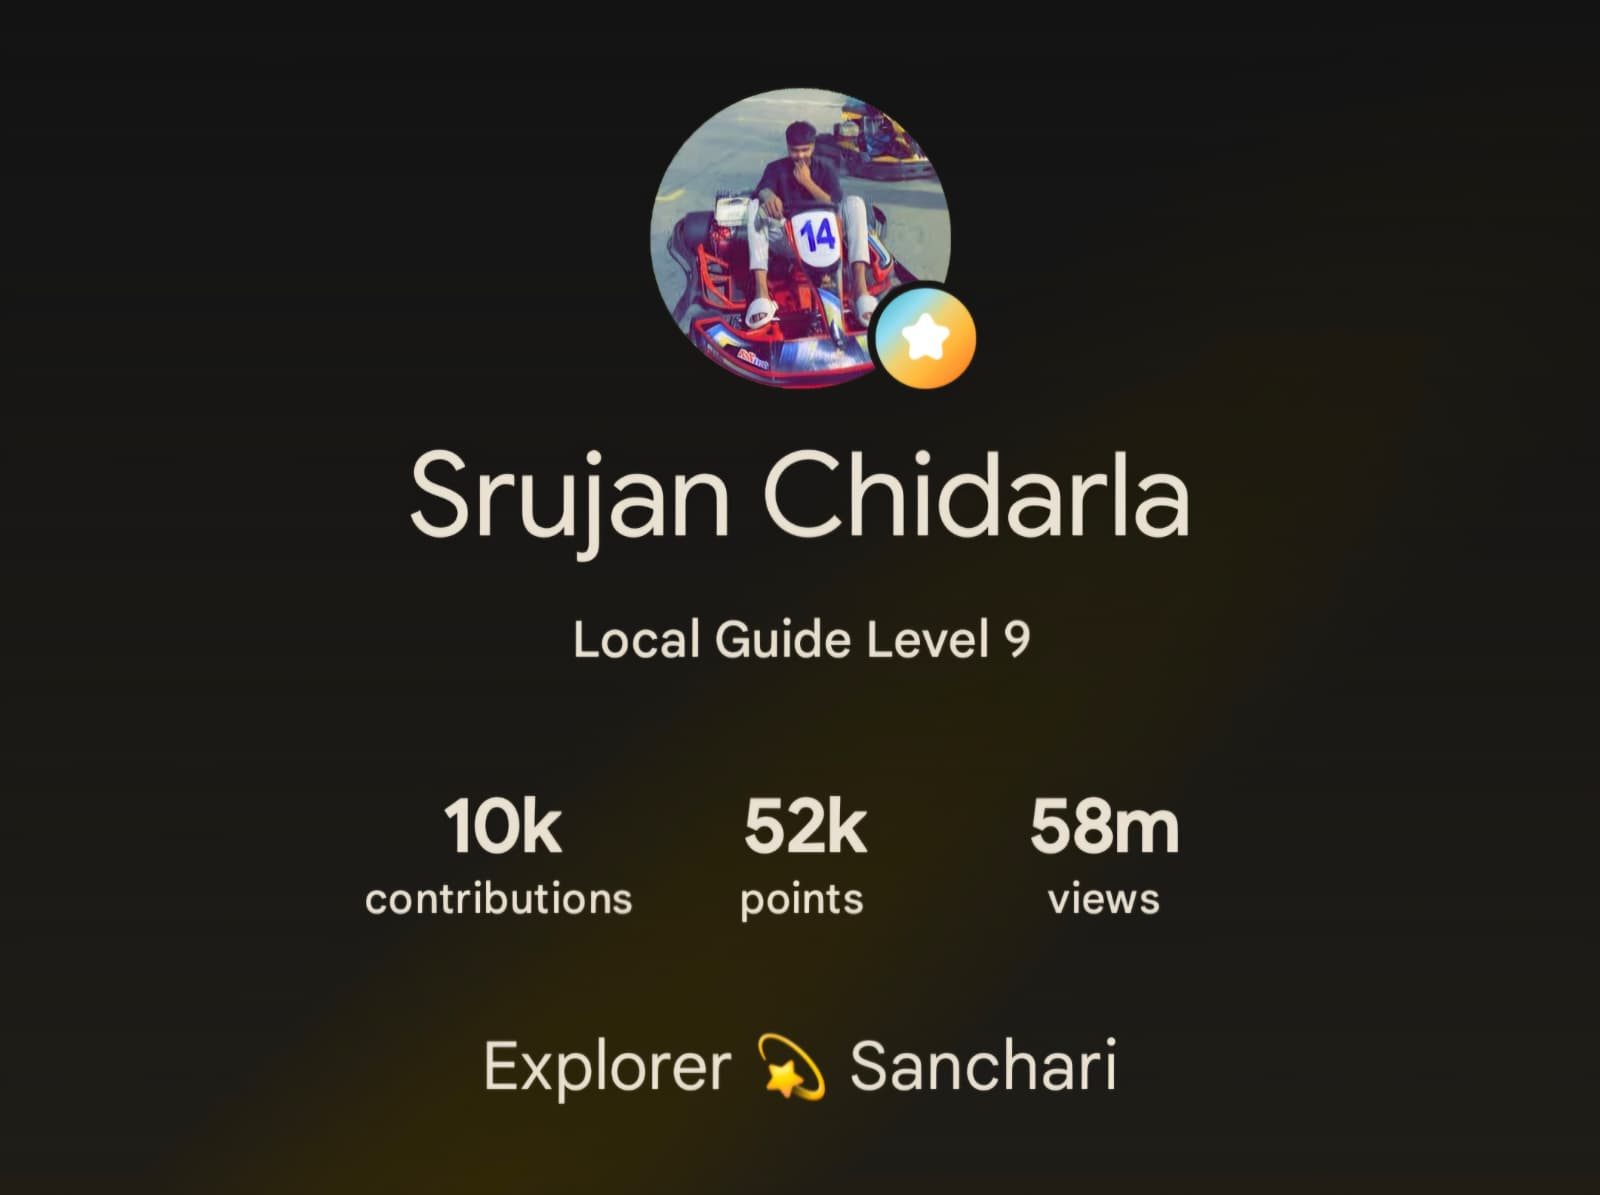
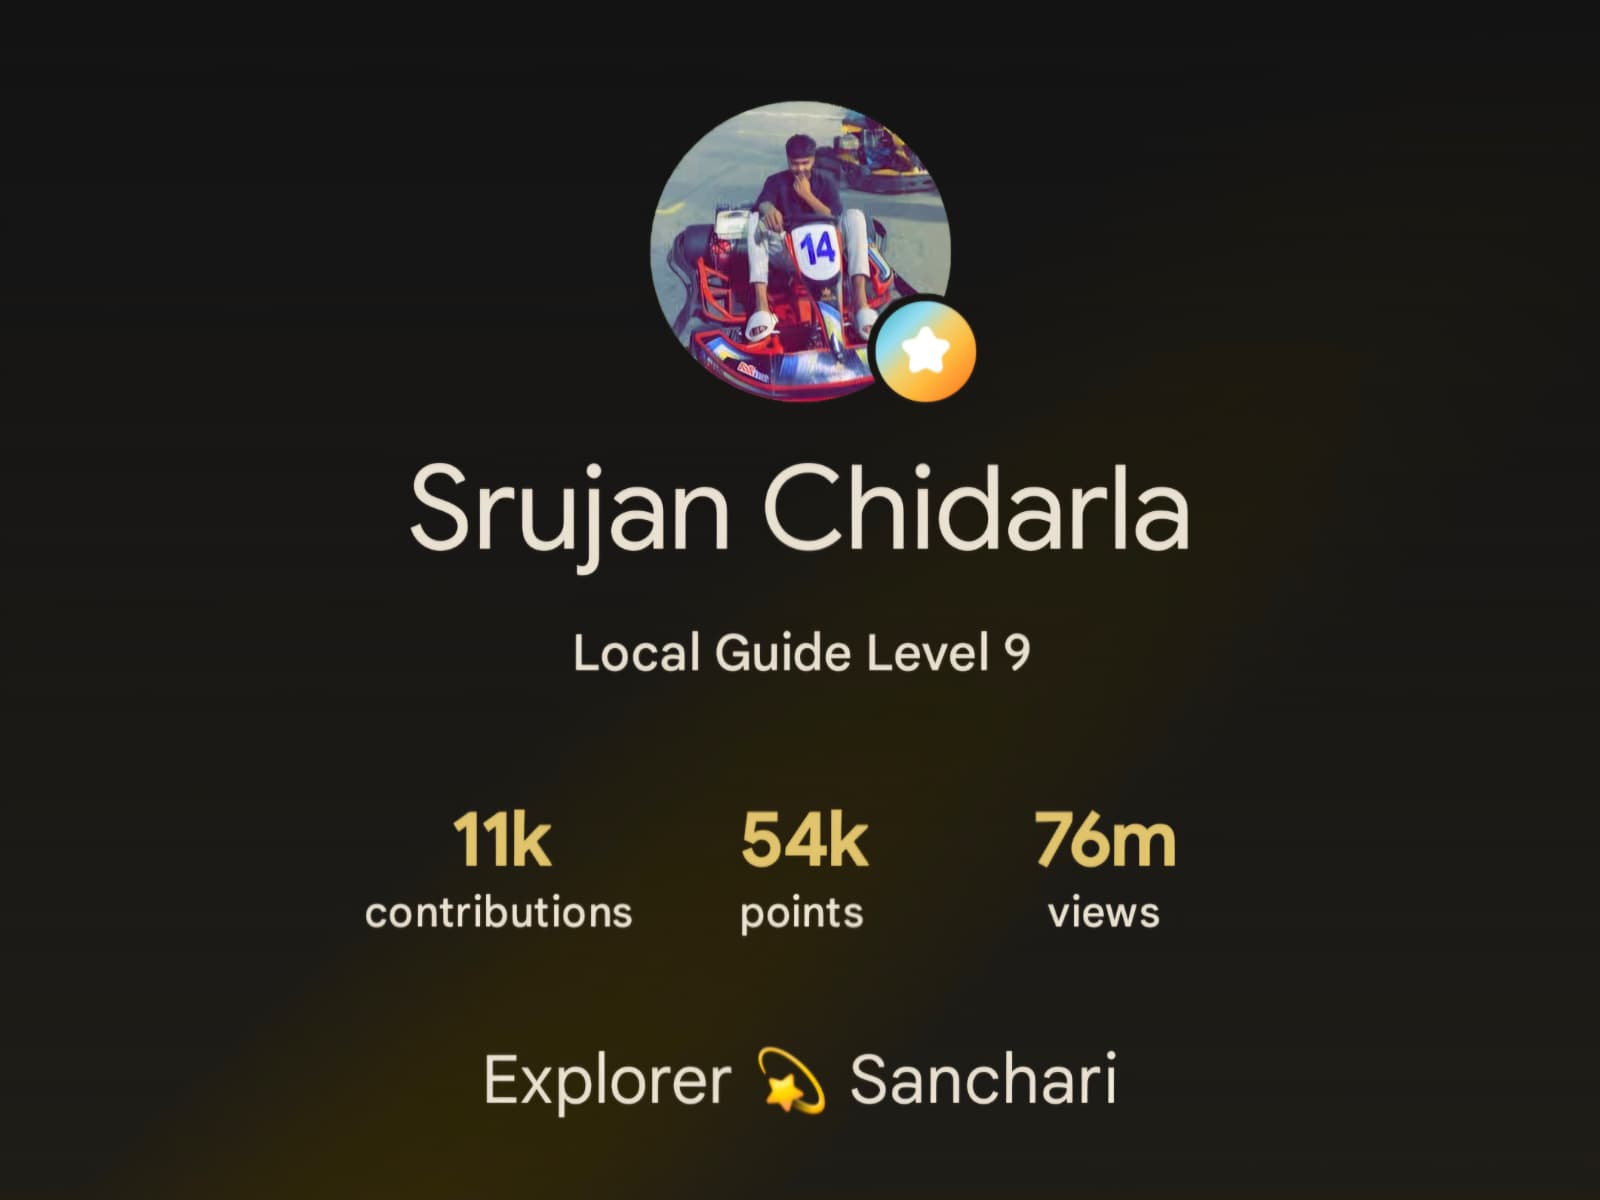
Fit the new Local Guide card to the full height of its section.
The updated profile image replaces the old square crop so the current points and views stay readable beside the stats.

diff --git a/src/app/globals.css b/src/app/globals.css
@@ -10972,9 +10972,14 @@ html[data-theme="light"] .navbar__resume:hover {
 }
 
 .rh-lg__strip {
-  display: flex;
+  display: grid;
+  grid-template-columns: auto minmax(0, 1fr) auto;
+  grid-template-areas:
+    "photo copy cta"
+    "photo details details";
   align-items: center;
-  gap: 24px;
+  column-gap: 24px;
+  row-gap: 14px;
   padding: 18px 22px;
   border-radius: 20px;
   border: 1px solid var(--c-border);
@@ -10995,11 +11000,14 @@ html[data-theme="light"] .navbar__resume:hover {
 }
 
 .rh-lg__avatar-wrap {
+  grid-area: photo;
   position: relative;
   display: block;
-  width: 200px;
-  height: 200px;
-  flex-shrink: 0;
+  align-self: stretch;
+  width: auto;
+  height: auto;
+  aspect-ratio: 4 / 3;
+  min-height: 100%;
   border-radius: 18px;
   overflow: hidden;
   border: 1px solid var(--c-border);
@@ -11012,12 +11020,12 @@ html[data-theme="light"] .navbar__resume:hover {
   height: 100% !important;
   max-width: none !important;
   object-fit: cover;
-  object-position: center 18%;
+  object-position: center center;
 }
 
 .rh-lg__copy {
+  grid-area: copy;
   min-width: 0;
-  flex: 1;
   display: flex;
   flex-direction: column;
   justify-content: center;
@@ -11082,10 +11090,11 @@ html[data-theme="light"] .navbar__resume:hover {
 }
 
 .rh-lg__details {
+  grid-area: details;
   display: flex;
   flex-direction: column;
   gap: 8px;
-  flex: 1 1 100%;
+  min-width: 0;
 }
 
 .rh-lg__progress {
@@ -11157,25 +11166,9 @@ html[data-theme="light"] .navbar__resume:hover {
   color: var(--c-muted);
 }
 
-@media (min-width: 721px) {
-  .rh-lg__strip {
-    flex-wrap: wrap;
-  }
-
-  .rh-lg__copy {
-    flex: 1 1 280px;
-  }
-
-  .rh-lg__details {
-    display: flex;
-    flex-direction: column;
-    gap: 8px;
-    flex: 1 1 100%;
-    padding-left: 224px;
-  }
-}
-
 .rh-lg__cta {
+  grid-area: cta;
+  justify-self: end;
   display: inline-flex;
   align-items: center;
   gap: 6px;
@@ -11203,18 +11196,25 @@ html[data-theme="light"] .navbar__resume:hover {
   }
 
   .rh-lg__strip {
-    flex-wrap: wrap;
-    gap: 16px;
+    grid-template-columns: minmax(148px, 46%) minmax(0, 1fr);
+    grid-template-areas:
+      "photo copy"
+      "photo cta"
+      "details details";
+    column-gap: 16px;
+    row-gap: 12px;
     padding: 14px 16px;
   }
 
-  .rh-lg__details {
-    padding-left: 0;
+  .rh-lg__avatar-wrap {
+    width: 100%;
+    min-height: 0;
+    aspect-ratio: auto;
   }
 
-  .rh-lg__avatar-wrap {
-    width: 152px;
-    height: 152px;
+  .rh-lg__cta {
+    justify-self: end;
+    align-self: start;
   }
 
   .rh-lg__title {
@@ -11240,23 +11240,8 @@ html[data-theme="light"] .navbar__resume:hover {
 }
 
 @media (max-width: 520px) {
-  .rh-lg__strip {
-    flex-wrap: wrap;
-  }
-
-  .rh-lg__copy {
-    flex: 1 1 calc(100% - 168px);
-  }
-
   .rh-lg__cta {
-    margin-left: auto;
-  }
-
-  .rh-lg__details {
-    display: flex;
-    flex-direction: column;
-    gap: 8px;
-    flex: 1 1 100%;
+    justify-self: end;
   }
 }
 

diff --git a/src/components/recruiter/LocalGuideBanner.tsx b/src/components/recruiter/LocalGuideBanner.tsx
@@ -20,7 +20,7 @@ export default function LocalGuideBanner() {
               height={600}
               quality={92}
               className="rh-lg__avatar"
-              sizes="(max-width: 640px) 152px, 200px"
+              sizes="(max-width: 720px) 46vw, 420px"
             />
           </span>
 
